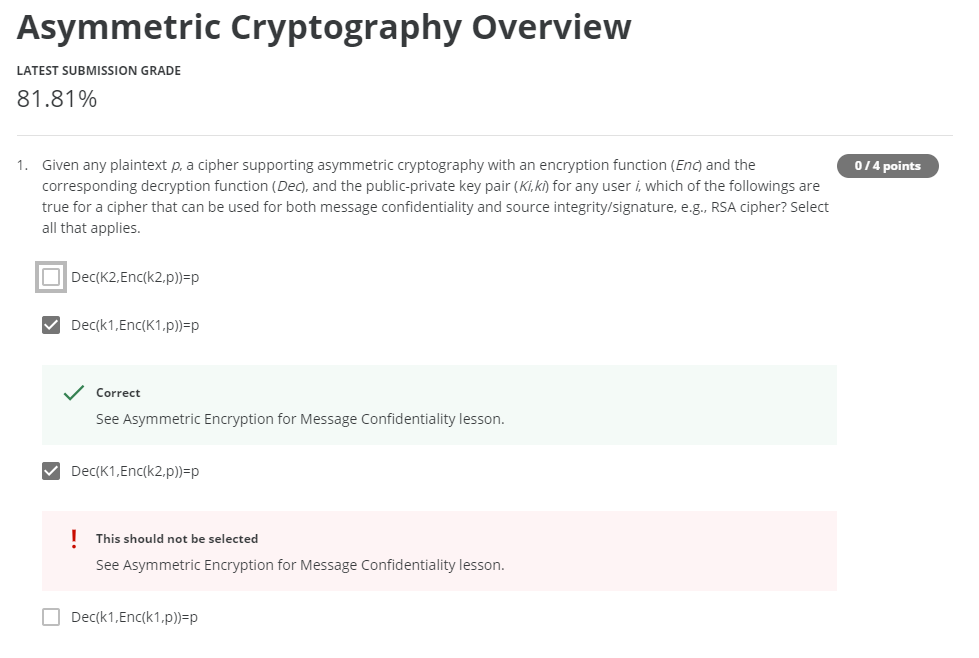
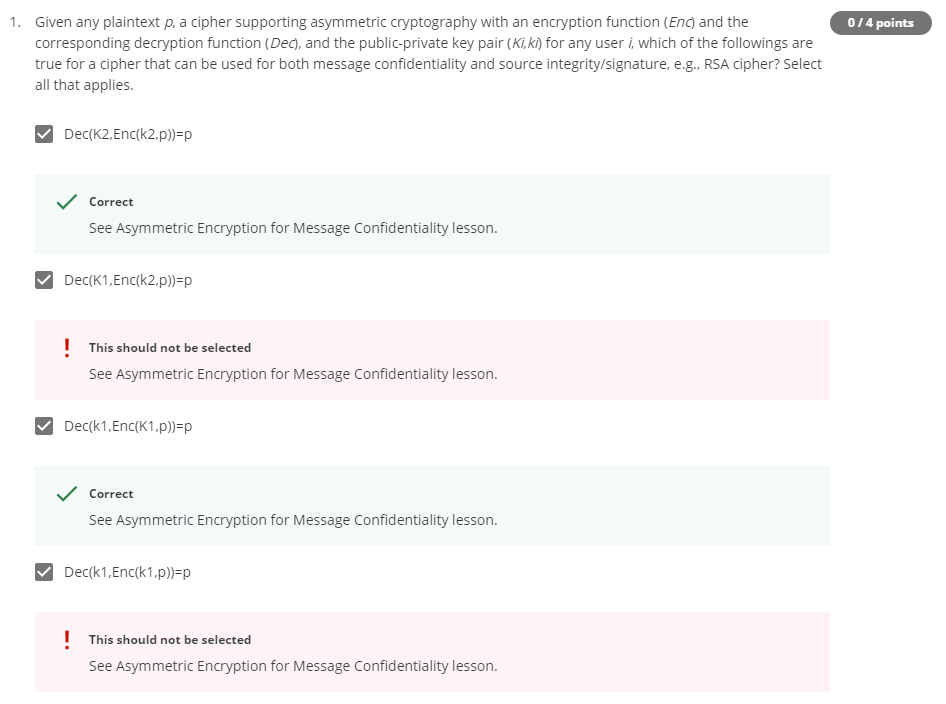
adds week 2 > rsa algo quiz ques 2

diff --git a/week2/quiz-rsa-algorithm.md b/week2/quiz-rsa-algorithm.md
@@ -1,8 +1,4 @@
-1
-phi p should not be selected
-try n phin
-
-2
-e and d are independent should not be selected
-rsa uses all should not be selected
-try m^{} stuff
+![question-1](assets/rsa-algorithm/question-1.PNG)
+![question-2](assets/rsa-algorithm/question-2.PNG)
+![question-3](assets/rsa-algorithm/question-3.PNG)
+![question-4](assets/rsa-algorithm/question-4.PNG)
